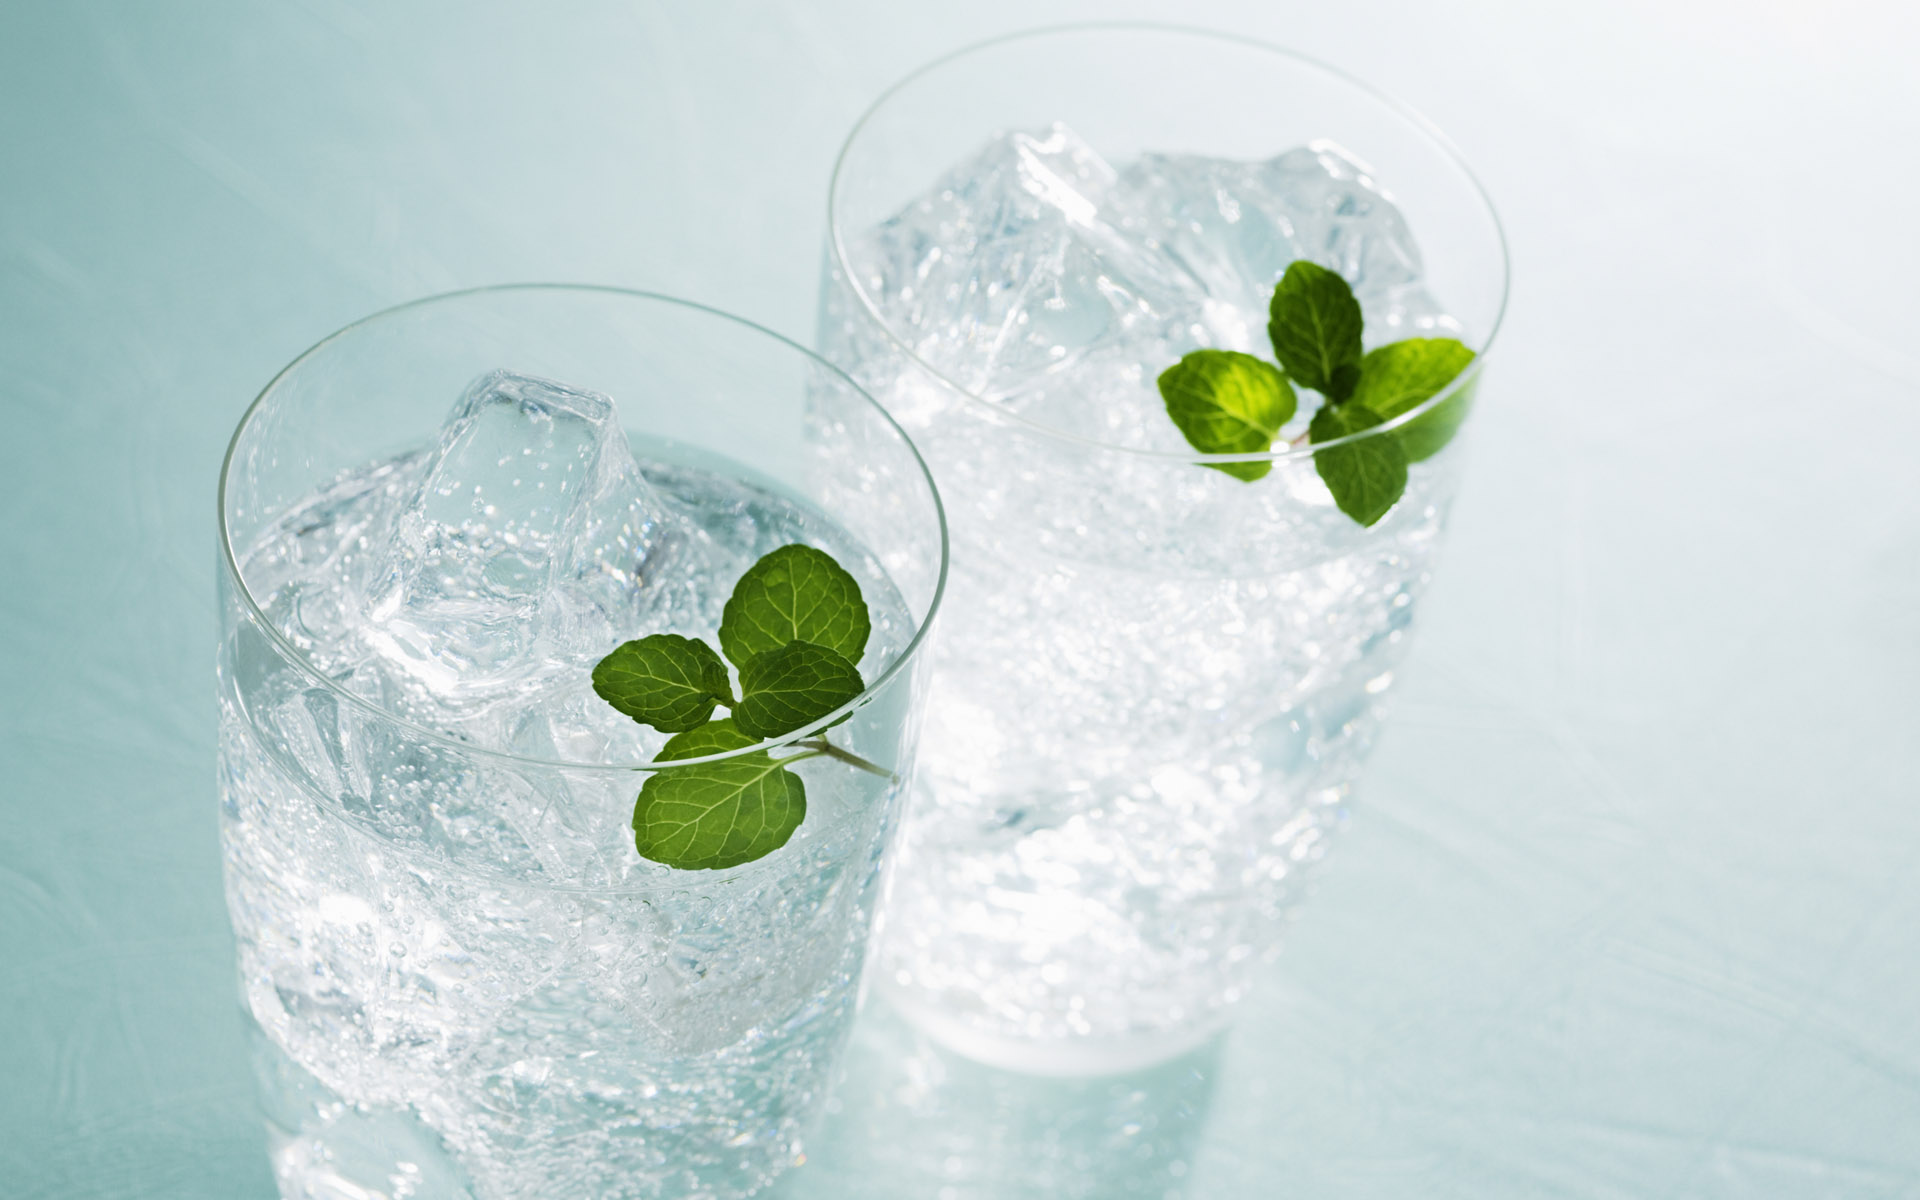
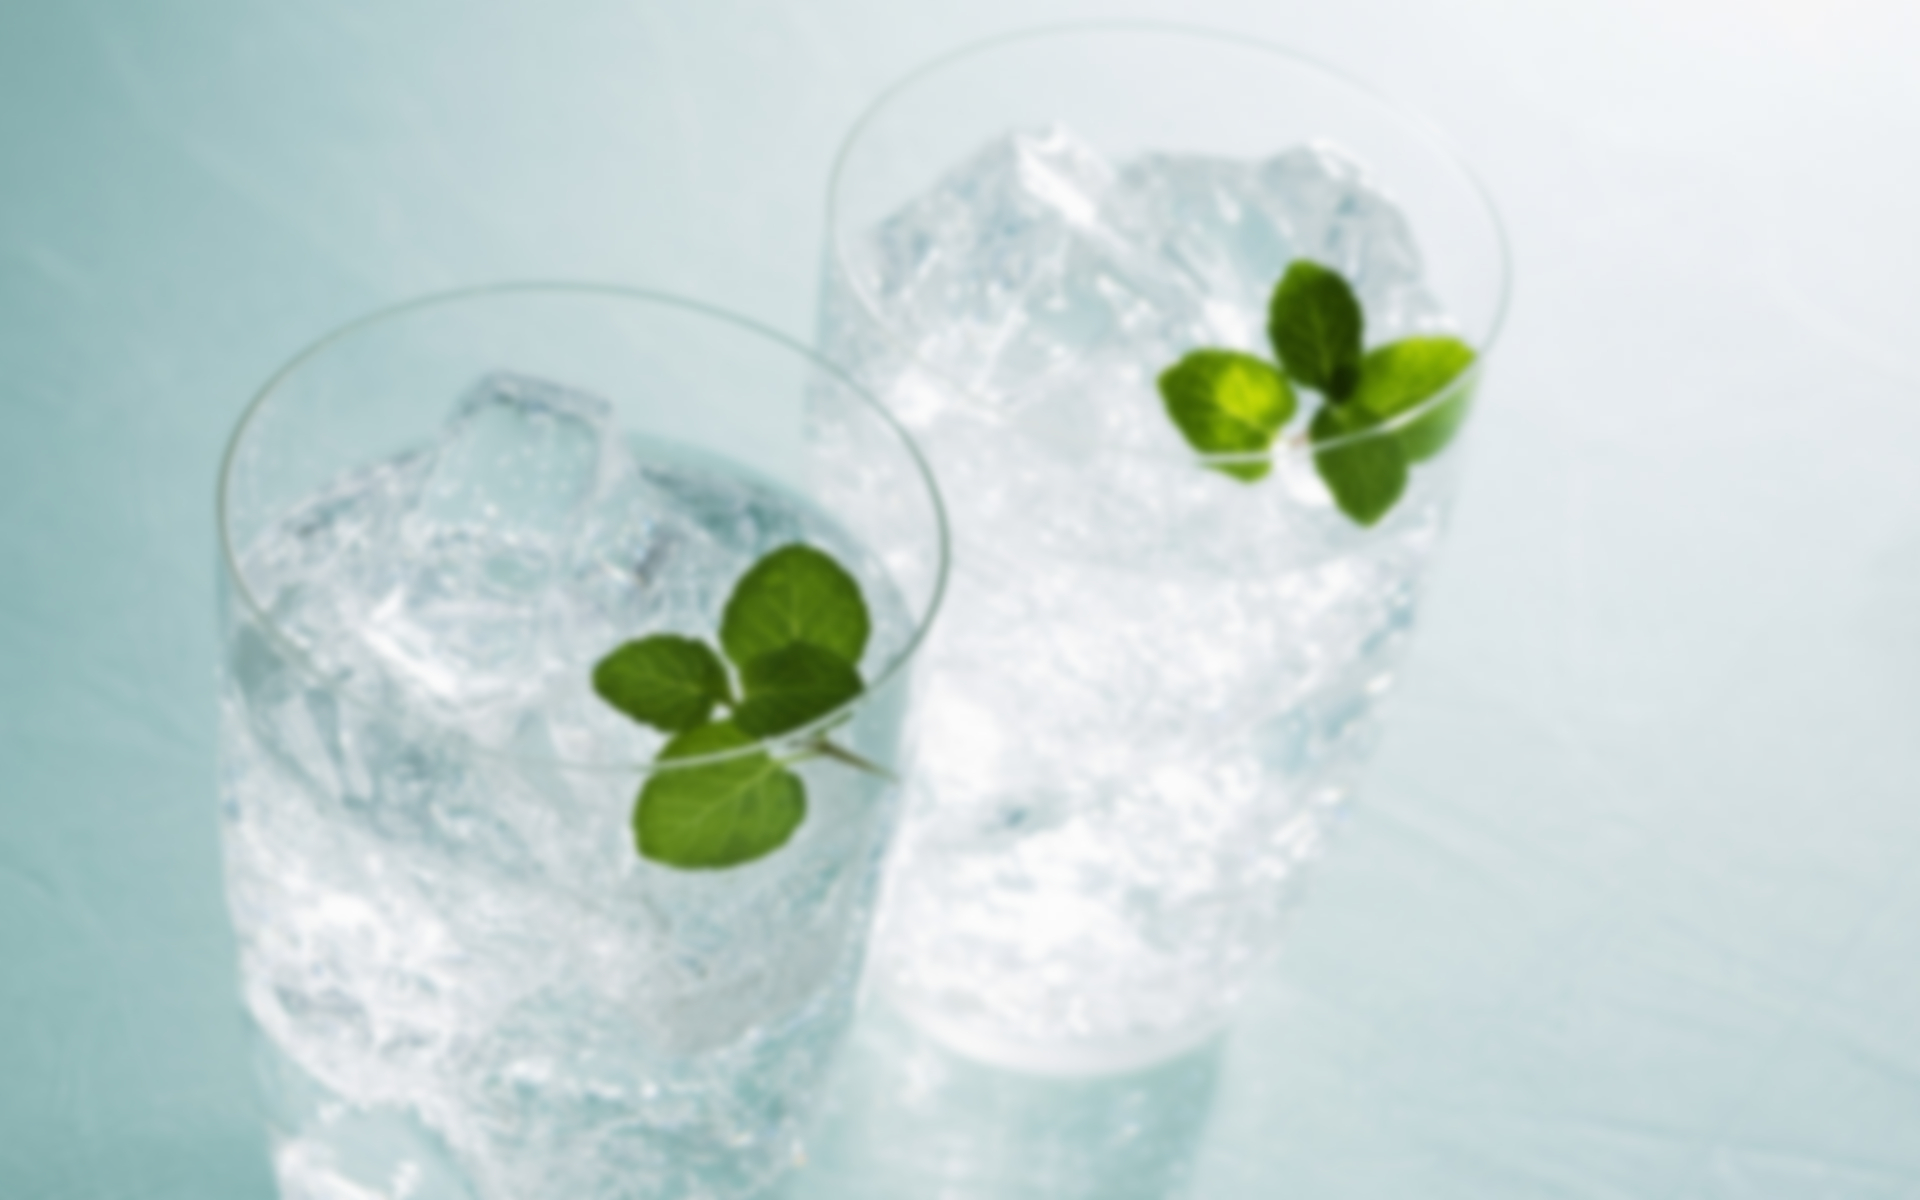
blur image, no css slow stuff

diff --git a/client/index.html b/client/index.html
@@ -27,12 +27,12 @@
         -moz-background-size: cover;
         -o-background-size: cover;
         background-size: cover;
-        filter: blur(4px);
-        -webkit-filter: blur(4px);
-        -moz-filter: blur(4px);
-        -o-filter: blur(4px);
-        -ms-filter: blur(4px);
-        filter: url(static/img/blur.svg#blur);
+        /*filter: blur(4px);*/
+        /*-webkit-filter: blur(4px);*/
+        /*-moz-filter: blur(4px);*/
+        /*-o-filter: blur(4px);*/
+        /*-ms-filter: blur(4px);*/
+        /*filter: url(static/img/blur.svg#blur);*/
       }
 
       body {
